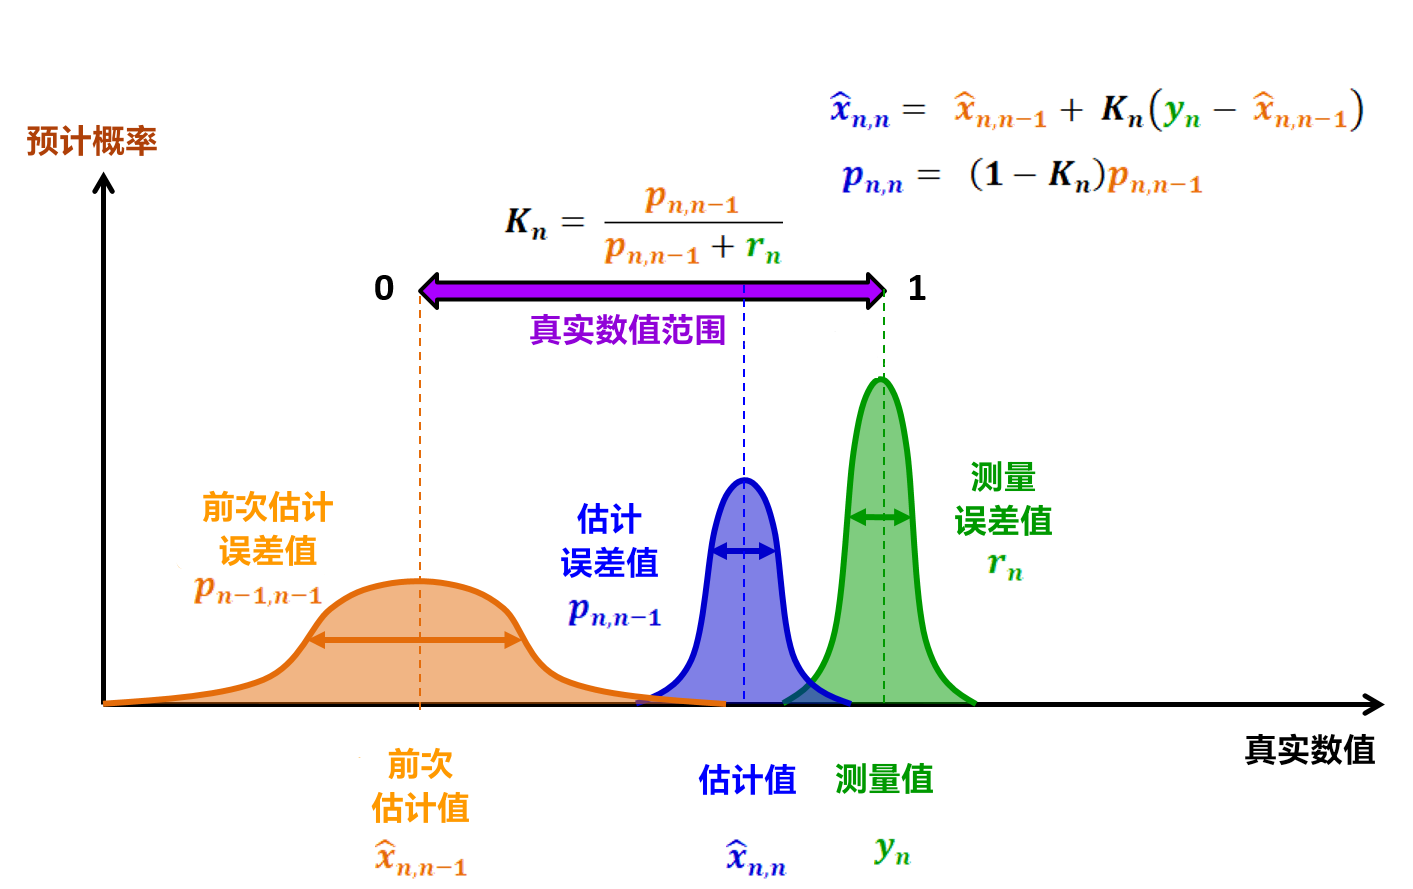
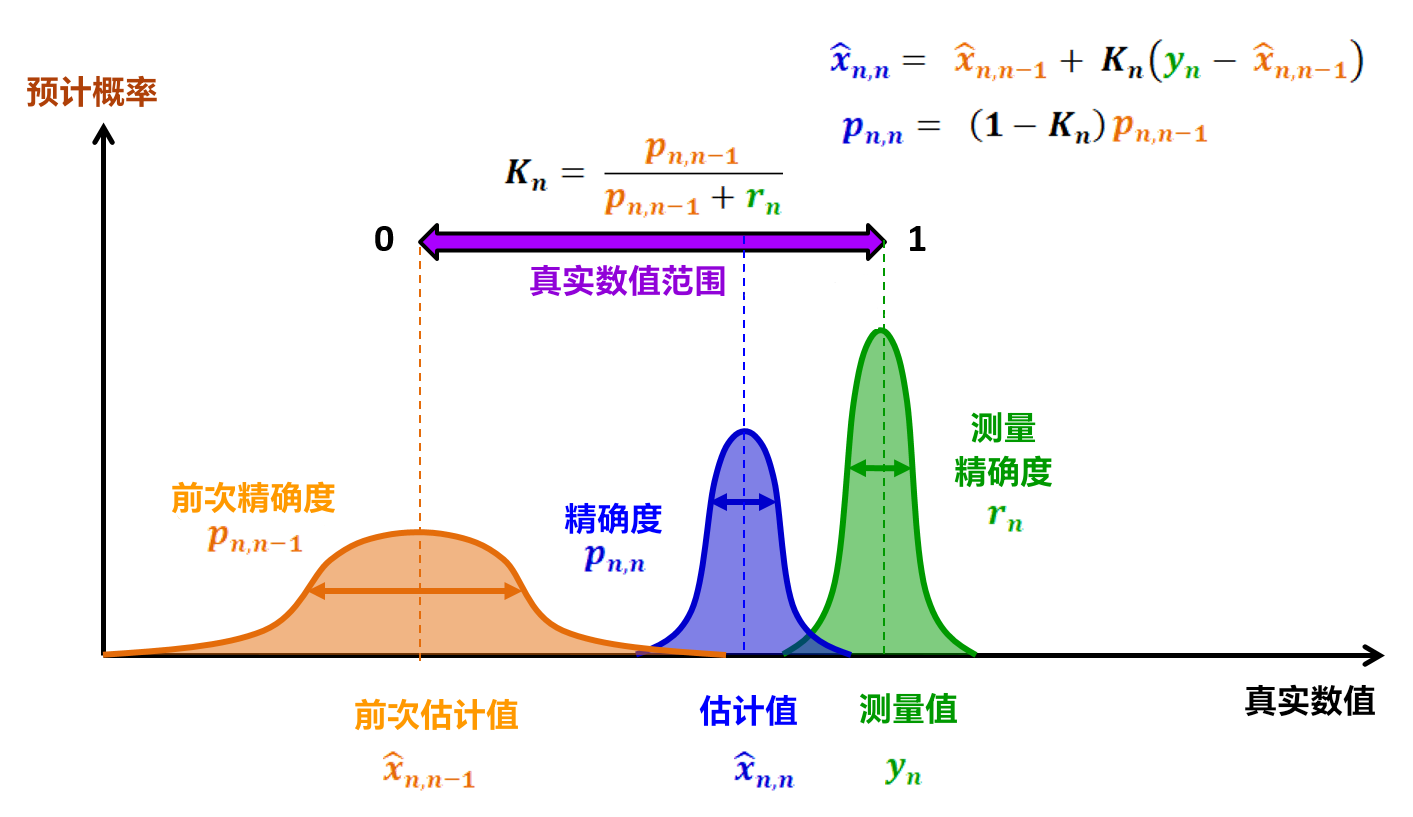
first commit

diff --git a/_posts/2024-10-08-pid.md b/_posts/2024-10-08-pid.md
@@ -99,7 +99,7 @@ $$
 ![Alt pid](../assets/img/esp/distribution.png)
 
 
-方差：用于衡量一组数据的离散程度。
+方差（Variance）：用于衡量一组数据的离散程度。
 
 $$ \sigma^2 = \frac {\sum (x-\mu)^2}{N}
 $$
@@ -134,19 +134,30 @@ $$
 #### 相关系数
 
 $$
-K_{前次估误差值} = \frac {\sigma_{测量误差值}^2}{\sigma_{前次估误差值}^2 + \sigma_{测量误差值}^2} ，\\ K_{测量误差值} = \frac {\sigma_{前次估误差值}^2}{\sigma_{前次估误差值}^2 + \sigma_{测量误差值}^2}， \\ K_{前次估误差值} + K_{测量误差值} = 1
+精确度 = \frac {1}{方差} = \frac {1}{\sigma^2}
 $$
 
-因只有**测量误差**虽要更新，所以考虑 $K_{测量误差值}$。
+$$
+K_{前次精确度} = \frac {前次精确度}{前次精确度+测量精确度} = \frac {\frac{1}{\sigma_{前次误差值}^2}} {\frac{1}{\sigma_{前次误差值}^2}+\frac{1}{\sigma_{测量误差值}^2}}=\frac {\sigma_{测量误差值}^2}{\sigma_{前次误差值}^2 + \sigma_{测量误差值}^2}$$
+
+$$K_{测量精确度} = \frac {测量精确度}{前次精确度+测量精确度} = \frac {\frac{1}{\sigma_{测量误差值}^2}} {\frac{1}{\sigma_{前次误差值}^2}+\frac{1}{\sigma_{测量误差值}^2}}=
+\frac {\sigma_{前次误差值}^2}{\sigma_{前次误差值}^2 + \sigma_{测量误差值}^2}
+$$
 
 $$
-x_{估计值} = K_{前次估误差值} \cdot x_{前次估计值} + K_{测量误差值} \cdot x_{测量值}
+K_{前次精确度} + K_{测量精确度} = 1
+$$
+
+因只有 **测量误差** 虽要更新，所以考虑 $K_{测量精确度}$。
+
+$$
+x_{估计值} = K_{前次精确度} \cdot x_{前次估计值} + K_{测量精确度} \cdot x_{测量值}
 $$
 $$ 
-x_{估计值} = (1 - K_{测量误差值}) \cdot x_{前次估计值} + K_{测量误差值} \cdot x_{测量值}
+x_{估计值} = (1 - K_{测量精确度}) \cdot x_{前次估计值} + K_{测量精确度} \cdot x_{测量值}
 $$ 
 
-#### 卡尔曼公式
+卡尔曼公式重组如下：
 
 ![Alt wavelet](../assets/img/esp/kfactor.png)
 
@@ -154,11 +165,11 @@ $$
 
 
 $$
-K_{测量误差值} = \frac {\sigma_{前次估误差值}^2}{\sigma_{前次估误差值}^2 + \sigma_{测量误差值}^2}
+K_{测量精确度} = \frac {\sigma_{前次误差值}^2}{\sigma_{前次误差值}^2 + \sigma_{测量误差值}^2}
 $$
 
 $$
-\sigma_{误差值}^2 = (1-K_{测量误差值}) \cdot \sigma_{前次估误差值}^2
+\sigma_{误差值}^2 = (1-K_{测量精确度}) \cdot \sigma_{前次误差值}^2
 $$
 
 ![Alt wavelet](../assets/img/esp/kalmang.png)
